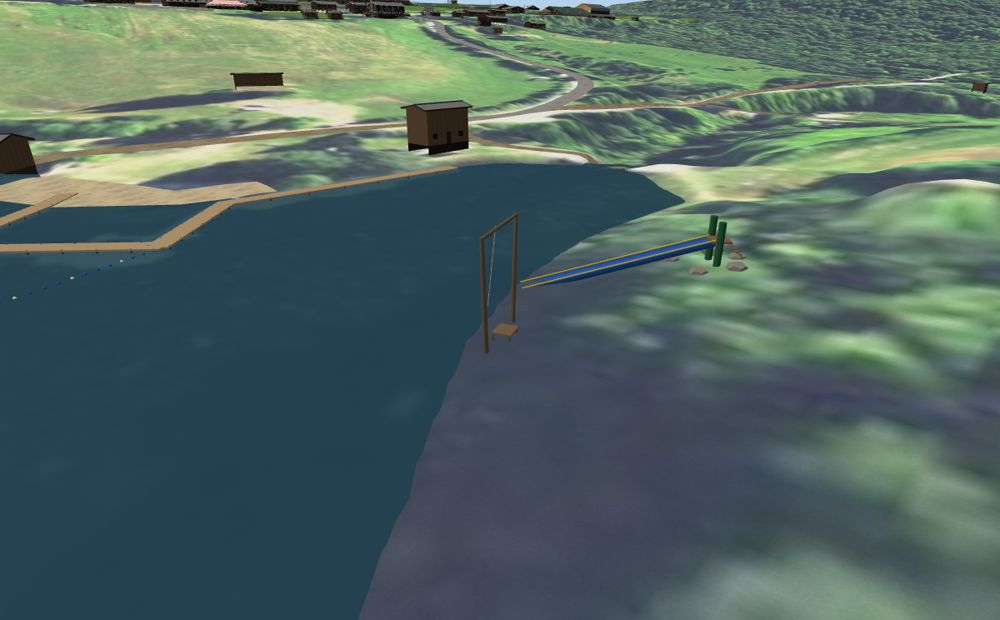
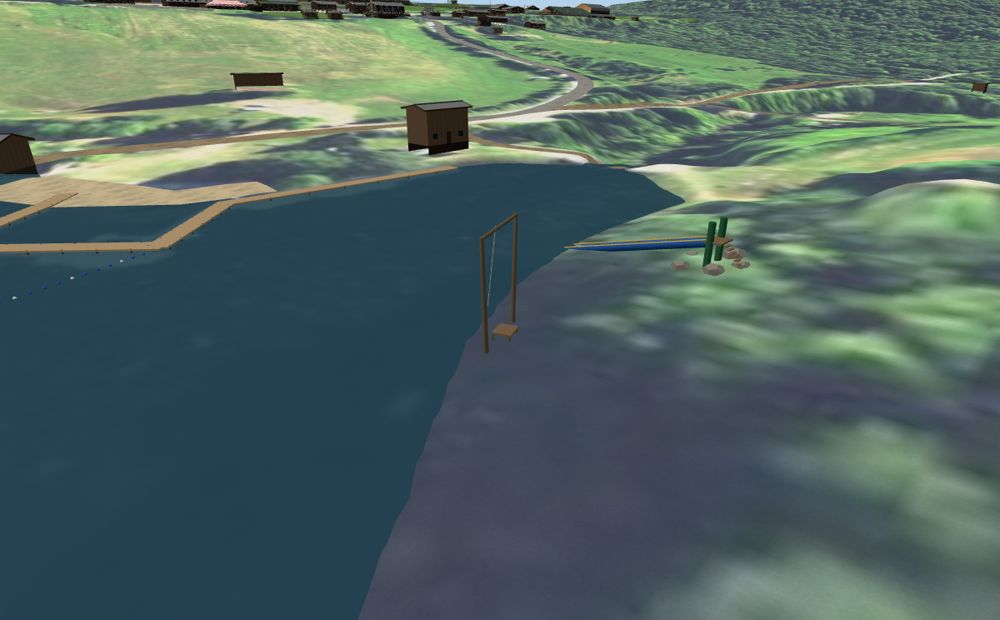
Waterslide points north, cooking 360 from inside the kitchen, ATV drone height, canteen entrance moved, DJ booth view, tennis under Field & Court Sports, Pool as a single item
Claude-Session: https://claude.ai/code/session_01PMvFX7qvKDYsteaty9bAo9

Changed region(s): [[0.527, 0.3371, 0.744, 0.4597]]

diff --git a/backend/gen_views.py b/backend/gen_views.py
@@ -19,8 +19,8 @@ PLACES = [
  # Sports Center building (hand-made views from earlier rounds)
  P('sc', 'Sports Center', xy=(1762, 1610), blurb='The big green-roofed Sports Center: the indoor court and canteen as one open hall, flags overhead, colour-war banners on the walls; the circus building is attached on its east end.', auto=False, gal='sports_center_circus', inside_name='Court & canteen', soon=[], inside=[
    *[{"id": f"mp_sc_{k}", "type": "mpano", "label": l, "modelPano": f"pano/mp_sc_{k}.jpg", "short": sh, "cam": xy, "look": lk, "cap": "Model only: a 360° view rendered from the model. Drag to look around."} for k, l, sh, xy, lk in [
-     ('court', 'Middle of the court in 360°', 'Court 360°', (1741.1, 1608.6), (1720, 1608)), ('cantdoor', 'By the canteen entrance in 360°', 'Canteen entrance', (1754.1, 1600.1), (1754, 1594)),
-     ('benches', 'Among the canteen benches in 360°', 'Benches', (1737.1, 1594.6), (1750, 1594.6)), ('dj', 'By the DJ booth in 360°', 'DJ booth', (1745.1, 1597.6), (1740, 1597)),
+     ('court', 'Middle of the court in 360°', 'Court 360°', (1741.1, 1608.6), (1720, 1608)), ('cantdoor', 'Inside the canteen entrance in 360°', 'Canteen entrance', (1757.1, 1598.0), (1757, 1592)),
+     ('benches', 'Among the canteen benches in 360°', 'Benches', (1737.1, 1594.6), (1750, 1594.6)), ('dj', 'By the DJ booth in 360°', 'DJ booth', (1745.1, 1597.6), (1746.8, 1597.0)),
      ('window', 'At the canteen windows in 360°', 'Canteen windows', (1755.1, 1596.8), (1755, 1594))]],still("sc-in-w", "Looking west across the court", "img/sc_in_w_model.jpg", "Model only."), still("sc-in-e", "Looking east toward the circus", "img/sc_in_e_model.jpg", "Model only.")], extra=[
    {"id": "sc-top", "type": "pair", "label": "From above", "real": "img/sc_top_real.jpg", "model": "img/sc_top_model.jpg", "cap": TOP},
    still("sc-front", "The front, from the volleyball court", "img/sc_front_model.jpg"), still("sc-se", "From the southeast", "img/sc_se_model.jpg"),
@@ -41,7 +41,7 @@ PLACES = [
  P('woodshop', 'Woodshop', 'The woodshop, a strip about 10 ft deep along the east end of the Art Center.', auto=False, soon=['Inside'], xy=(1420, 1585)),
  P('media-arts', 'Media Arts', 'The Media Arts room.', auto=False, soon=['Outside', 'Inside'], xy=(1615, 1754)),
  P('pottery', 'Pottery', 'Pottery, at the end of the Art Center.', pano='s30', pano_label='Pottery', gal='pottery', auto=False, xy=(1365, 1590)),
- P('cooking', 'Cooking', 'The cooking building near the boys’ side.', c=(1512, 1706), w=40, soon=['Kitchen']),
+ P('cooking', 'Cooking', 'The cooking building near the boys’ side.', c=(1512, 1706), w=40, pano='s32', pano_label='Cooking kitchen'),
  # Field sports
  P('soccer', 'Soccer (Lower Field)', 'Soccer on the Lower Field.', c=(1865, 1609), w=130),
  P('lacrosse', 'Lacrosse (Upper Field)', 'Lacrosse on the Upper Field.', c=(1790, 1834), w=130),
@@ -113,10 +113,10 @@ def cab(*ks): return [{"ref": 'cabin-' + k} for k in ks if k in CABINS]
 MENU = [
  {"name": "Performing Arts", "items": [{"ref": "circus"}, {"ref": "dance"}, {"ref": "rec-hall", "view": "s18-360"}, {"ref": "rec-hall", "view": "rec-hall--blackbox-theater", "name": "Blackbox theater"}, {"ref": "rec-hall", "view": "s21-360", "name": "Music / Rock Band"}, {"ref": "amphitheater"}]},
  {"name": "Creative Arts", "items": [{"ref": "ac"}, {"ref": "pottery"}, {"ref": "woodshop"}, {"ref": "cooking"}]},
- {"name": "Field & Court Sports", "items": [{"ref": "basketball"}, {"ref": "volleyball"}, {"ref": "soccer"}, {"ref": "lacrosse"}, {"ref": "baseball"}, {"ref": "middle-field"}]},
- {"name": "Athletics", "items": [{"ref": "tennis"}, {"ref": "gym"}, {"ref": "golf"}, {"ref": "archery"}, {"ref": "riflery"}, {"ref": "fencing"}, {"ref": "skate"}, {"ref": "mountainboard"}, {"ref": "bungee"}, {"ref": "gaga"}, {"ref": "tetherball"}]},
+ {"name": "Field & Court Sports", "items": [{"ref": "basketball"}, {"ref": "volleyball"}, {"ref": "soccer"}, {"ref": "lacrosse"}, {"ref": "baseball"}, {"ref": "tennis"}, {"ref": "middle-field"}]},
+ {"name": "Athletics", "items": [{"ref": "gym"}, {"ref": "golf"}, {"ref": "archery"}, {"ref": "riflery"}, {"ref": "fencing"}, {"ref": "skate"}, {"ref": "mountainboard"}, {"ref": "bungee"}, {"ref": "gaga"}, {"ref": "tetherball"}]},
  {"name": "Adventure", "items": [{"ref": "ropes"}, {"ref": "paintball"}, {"ref": "lasertag"}, {"ref": "atv"}, {"ref": "dirtbikes"}, {"ref": "horses"}]},
- {"name": "Lake & Pool", "items": [{"name": "Lake", "items": [{"ref": "waterfront"}, {"ref": "waterslide"}, {"ref": "watertramp"}, {"ref": "ropeswing"}, {"ref": "jetski"}]}, {"name": "Pool", "items": [{"ref": "pool"}]}]},
+ {"name": "Lake & Pool", "items": [{"name": "Lake", "items": [{"ref": "waterfront"}, {"ref": "waterslide"}, {"ref": "watertramp"}, {"ref": "ropeswing"}, {"ref": "jetski"}]}, {"ref": "pool"}]},
  {"name": "Other Activities", "items": [{"ref": "media-arts"}]},
  {"name": "Cabins", "items": [{"name": "Junior Boys", "items": cab('1', '2-3')}, {"name": "Inter Boys", "items": cab('12', '13', '14', '15')}, {"name": "Senior Boys", "items": cab('16', '17', '18', '19')},
    {"name": "Junior Girls", "items": cab('6', '7', '8')}, {"name": "Inter Girls", "items": cab('9', '10', '11')}, {"name": "Senior Girls", "items": cab('20', '21', '22', '23', '24')},
@@ -145,10 +145,10 @@ for p in PLACES:
     if p['pano']:
         pv = {"id": f"{p['pano']}-360", "type": "pano", "label": f"{p['pano_label']} in 360°", "realPano": f"pano/{p['pano']}_real.jpg", "modelPano": f"pano/{p['pano']}_model.jpg",
               "cap": "Real: 360° tour photo (2023–2025). The model was rendered from about the same spot; if it's turned, use the turn buttons."}
-        (ins if p['key'] in ('ac', 'circus', 'dance', 'gym', 'rec-hall', 'rock-band', 'pottery', 'horses') else out).append(pv)
+        (ins if p['key'] in ('ac', 'cooking', 'circus', 'dance', 'gym', 'rec-hall', 'rock-band', 'pottery', 'horses') else out).append(pv)
     SPOT = {'s07': (1791.6, 1609.9), 's12': (1393.9, 1584.9), 's14': (1684.2, 1566.2), 's19': (1786.1, 1627.1), 's34': (1744.1, 1625.5), 's17': (1459.0, 1491.8), 's18': (1491.0, 1645.0),
             's21': (1474.1, 1650.7), 's22': (1612.1, 1615.6), 's30': (1418.6, 1582.6), 's31': (1395.0, 1528.7), 's23': (1617.1, 1681.6), 's29': (1643.1, 1565.7), 's37': (1455.2, 1581.7),
-            's25': (1494.7, 1723.0), 's27': (1702.1, 1765.6), 's24': (1314.7, 1528.7), 's36': (1422.4, 1461.5), 's05': (1511.9, 1403.7), 's40': (1250.0, 1183.3), 's39': (1177.1, 1230.6), 's11': (2022.1, 1935.6), 's08': (1761.0, 1705.5)}
+            's25': (1494.7, 1723.0), 's27': (1702.1, 1765.6), 's24': (1314.7, 1528.7), 's36': (1422.4, 1461.5), 's05': (1511.9, 1403.7), 's40': (1250.0, 1183.3), 's39': (1177.1, 1230.6), 's11': (2022.1, 1935.6), 's08': (1761.0, 1705.5), 's32': (1513.8, 1703.0)}
     SH = json.load(open(f'{SITE}/pano/shifts.json')) if os.path.exists(f'{SITE}/pano/shifts.json') else {}
     for e in out + ins + [x for v in p['sections'].values() for x in v]:
         if e.get('type') in ('pano', 'mpano'):
